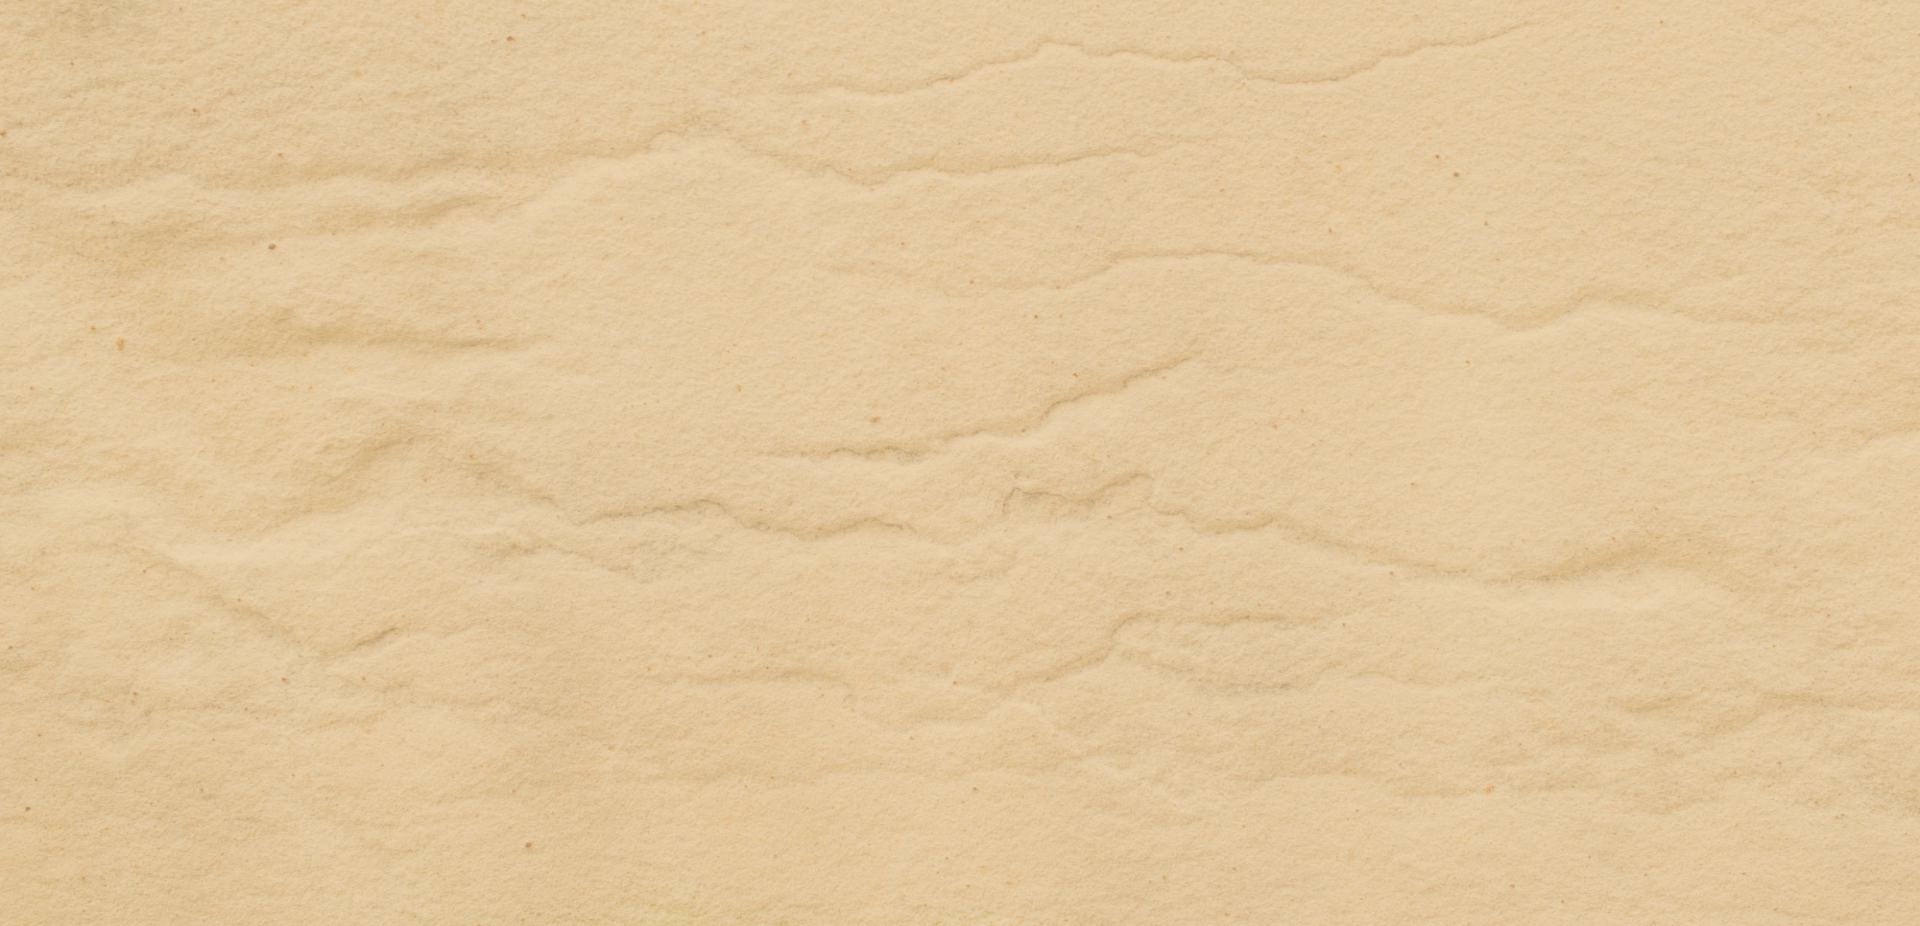
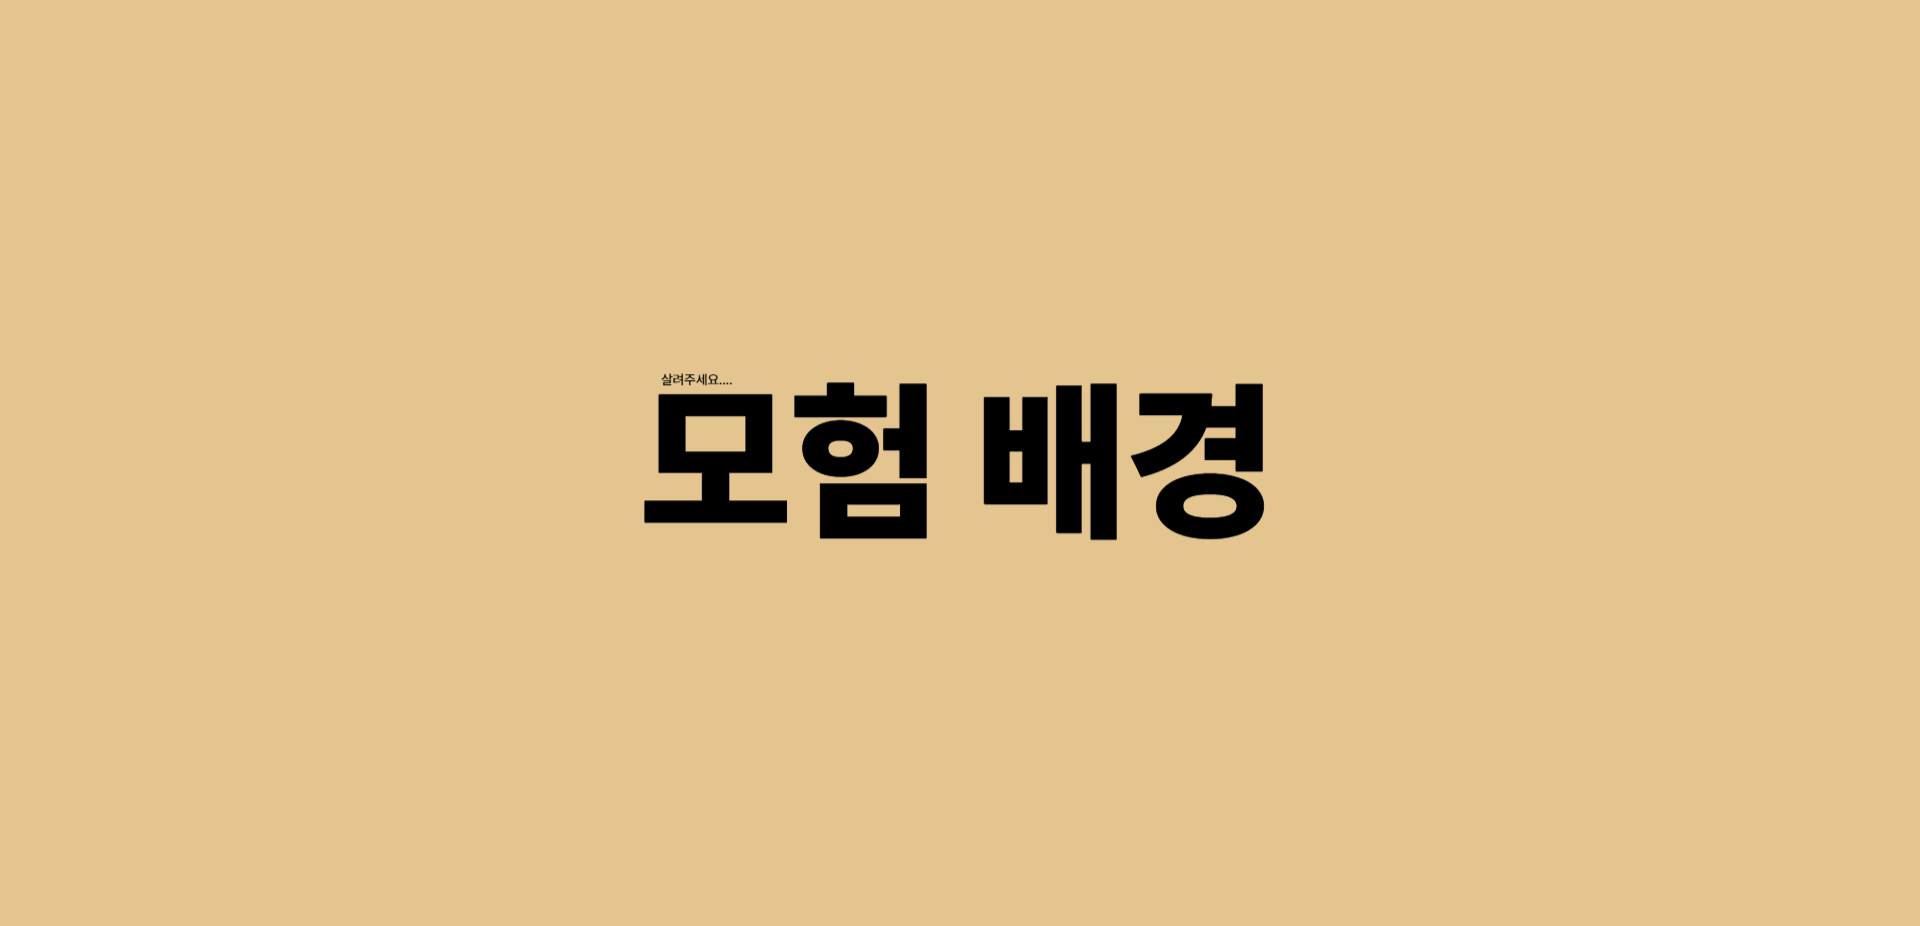
feat: 테마 첫번째 화면 UI 레이아웃 60% 완료료

diff --git a/src/pages/ThemePage.jsx b/src/pages/ThemePage.jsx
@@ -13,7 +13,9 @@ import '../styles/ThemePage.css';
 
 import horror_background from '../assets/images/ThemePage_img/horror/horror_background.png';
 import horror_stairs from '../assets/images/ThemePage_img/horror/horror_stairs.png';
+import horror_top from '../assets/images/ThemePage_img/horror/horror_top.png';
 import adventure_background from '../assets/images/ThemePage_img/adventure/adventure_background.png';
+import crime_background from '../assets/images/ThemePage_img/crime/crime_background.png';
 
 function ThemePage() {
     // URL 파라미터에서 theme 값을 가져옴
@@ -27,6 +29,7 @@ function ThemePage() {
     const backgroundMap = {
         horror: horror_background,
         adventure: adventure_background,
+        crime: crime_background
     };
 
     // 테마별 계단 이미지 매핑
@@ -34,9 +37,14 @@ function ThemePage() {
         horror: horror_stairs,
     };
 
+    const topMap = {
+        horror: horror_top,
+    }
+
     // 현재 테마에 맞는 이미지 가져오기
     const backgroundImage = backgroundMap[theme];
     const stairsImage = stairsMap[theme];
+    const topImage = topMap[theme];
 
     // theme 값이 없거나 배경 이미지가 없으면 아무것도 렌더링하지 않음
     if (!theme || !backgroundImage) return null;
@@ -104,19 +112,75 @@ function ThemePage() {
             <div id="fullpage">
                 {/* 첫 번째 섹션 */}
                 <div className="section">
-                    {/* 배경 이미지 */}
-                    <img id="theme_background" src={backgroundImage} alt="theme_background" />
+                    <div className='theme_wrap'>
+                        {/* 배경 이미지 */}
+                        <img id="theme_background" src={backgroundImage} alt="theme_background" />
 
-                    {/* 헤더 영역: 로고 + 프로필 */}
-                    <header className="theme_header">
-                        <Header_Logo />
-                        <Profile onSignInClick={handleSignInClick} onSignUpClick={handleSignUpClick} />
-                    </header>
+                        {/* 헤더 영역: 로고 + 프로필 */}
+                        <header className="theme_header">
+                            <Header_Logo />
+                            <Profile onSignInClick={handleSignInClick} onSignUpClick={handleSignUpClick} />
+                        </header>
 
-                    {/* 중간 구조물(계단 + 복도) */}
-                    <div className='floor'>
-                        <img id='theme_stairs' src={stairsImage} alt='theme_stairs' />
-                        <div className='hallway'></div>
+                        <div className='theme_hit_rank_floor'>
+                            <div className='theme_hit_rank'>
+                                <div className='theme_rank'>
+                                    <div className='rank'>
+
+                                    </div>
+                                </div>
+
+                                <div className='theme_hit'>
+                                    <div className='theme_door_hit1'>
+                                        <div className='top1'>
+                                            <div className='theme_door_top1'>
+                                                <img id='theme_door_top_img' src={topImage} alt='theme_door_top_img' />
+
+                                                <p>TOP 1</p>
+                                            </div>
+                                        </div>
+
+                                        <div className='door_top1'>
+
+                                        </div>
+                                    </div>
+
+                                    <div className='theme_door_hit2'>
+                                        <div className='top2'>
+                                            <div className='theme_door_top2'>
+                                                <img id='theme_door_top_img' src={topImage} alt='theme_door_top_img' />
+
+                                                <p>TOP 2</p>
+                                            </div>
+                                        </div>
+
+                                        <div className='door_top2'>
+                                            
+                                        </div>
+                                    </div>
+
+                                    <div className='theme_door_hit3'>
+                                        <div className='top3'>
+                                            <div className='theme_door_top3'>
+                                                <img id='theme_door_top_img' src={topImage} alt='theme_door_top_img' />
+
+                                                <p>TOP 3</p>
+                                            </div>
+                                        </div>
+
+                                        <div className='door_top3'>
+                                            
+                                        </div>
+                                    </div>  
+                                </div>
+                            </div>
+
+                            {/* 중간 구조물(계단 + 복도) */}
+                            <div className='floor'>
+                                <img id='theme_stairs' src={stairsImage} alt='theme_stairs' />
+                                <div className='hallway'></div>
+                            </div>
+                        </div>
                     </div>
                 </div>
 

diff --git a/src/styles/ThemePage.css b/src/styles/ThemePage.css
@@ -6,29 +6,97 @@
     display: none !important;
 }
 
+.theme_wrap {
+    width: 100dvw;
+    height: 100dvh;
+}
+
 #theme_background {
     width: 100dvw;
     height: 100dvh;
 }
 
-.section.footer_section {
-    height: auto !important;
-}
-
 .theme_header {
     justify-content: space-between;
-    padding-left: 3%;
+    padding-left: 4.5%;
     width: 100%;
     top: 5%;
     position: absolute;
     display: flex;
 }
 
-.floor {
+.theme_hit_rank_floor {
     position: absolute;
     bottom: 0;
-    height: 5vh;
     width: 100%;
+    height: 80%;
+}
+
+.theme_hit_rank {
+    height: 93%;
+    display: flex;
+}
+
+.theme_rank {
+    flex: 1;
+    display: flex;
+    justify-content: center;
+}
+
+.rank {
+    margin-top: 20%;
+    width: 60%;
+    height: 40%;
+    border: 2px solid #b22222;
+    border-radius: 10px;
+}
+
+.theme_hit {
+    flex: 4;
+    display: flex;
+    gap: 5%;
+    padding-right: 2%;
+}
+
+.theme_door_hit1,
+.theme_door_hit2,
+.theme_door_hit3 {
+    flex: 1;
+}
+
+.top1, .top2, .top3 {
+    height: 10%;
+    display: flex;
+    justify-content: center;
+    align-items: center;
+    margin-bottom: 1%;
+}
+
+.theme_door_top1, .theme_door_top2, .theme_door_top3 {
+    position: relative;
+}
+
+#theme_door_top_img {
+    width: 6vw;
+}
+
+.theme_door_top1 p, .theme_door_top2 p, .theme_door_top3 p {
+    position: absolute;
+    top: 50%;
+    left: 50%;
+    transform: translate(-50%, -50%);
+    color: white;
+    font-size: 1vw;
+}
+
+.door_top1, .door_top2, .door_top3 {
+    background-color: black;
+    height: 90%;
+}
+
+.floor {
+    width: 100%;
+    height: 7%;
     display: flex;
 }
 
@@ -36,4 +104,8 @@
     background-color: black;
     height: 100%;
     width: 100%;
+}
+
+.section.footer_section {
+    height: auto !important;
 }

diff --git a/src/pages/MainPage.jsx b/src/pages/MainPage.jsx
@@ -258,7 +258,20 @@ function MainPage() {
                   </div>
 
                   <div className="text">
-                    {/* 실제 공지 내용 */}
+                    {/* 공지사항 text 예시 */}
+                    안녕하세요, [셜LOCK]입니다.<br/>
+                    보다 안정적인 서비스 제공을 위해 아래와 같이 서버 점검이 예정되어 있습니다.<br/><br/>
+                    ■ 점검 일시<br/><br/>
+                    2025년 4월 20일(일) 02:00 ~ 04:00 (약 2시간 예정)<br/><br/>
+                    ■ 점검 내용<br/><br/>
+                    서버 성능 개선 및 보안 업데이트<br/>
+                    서비스 안정성 향상 작업<br/><br/>
+                    ■ 점검 영향<br/><br/>
+                    점검 시간 동안 서비스 이용이 일시적으로 중단됩니다.<br/>
+                    (웹사이트 접속 및 일부 기능 제한)<br/><br/>
+                    이용에 불편을 드려 죄송합니다.<br/>
+                    더 나은 서비스를 제공하기 위한 작업이오니 너른 양해 부탁드립니다.<br/><br/>
+                    감사합니다.
                   </div>
 
                   <div className="exit_day">
